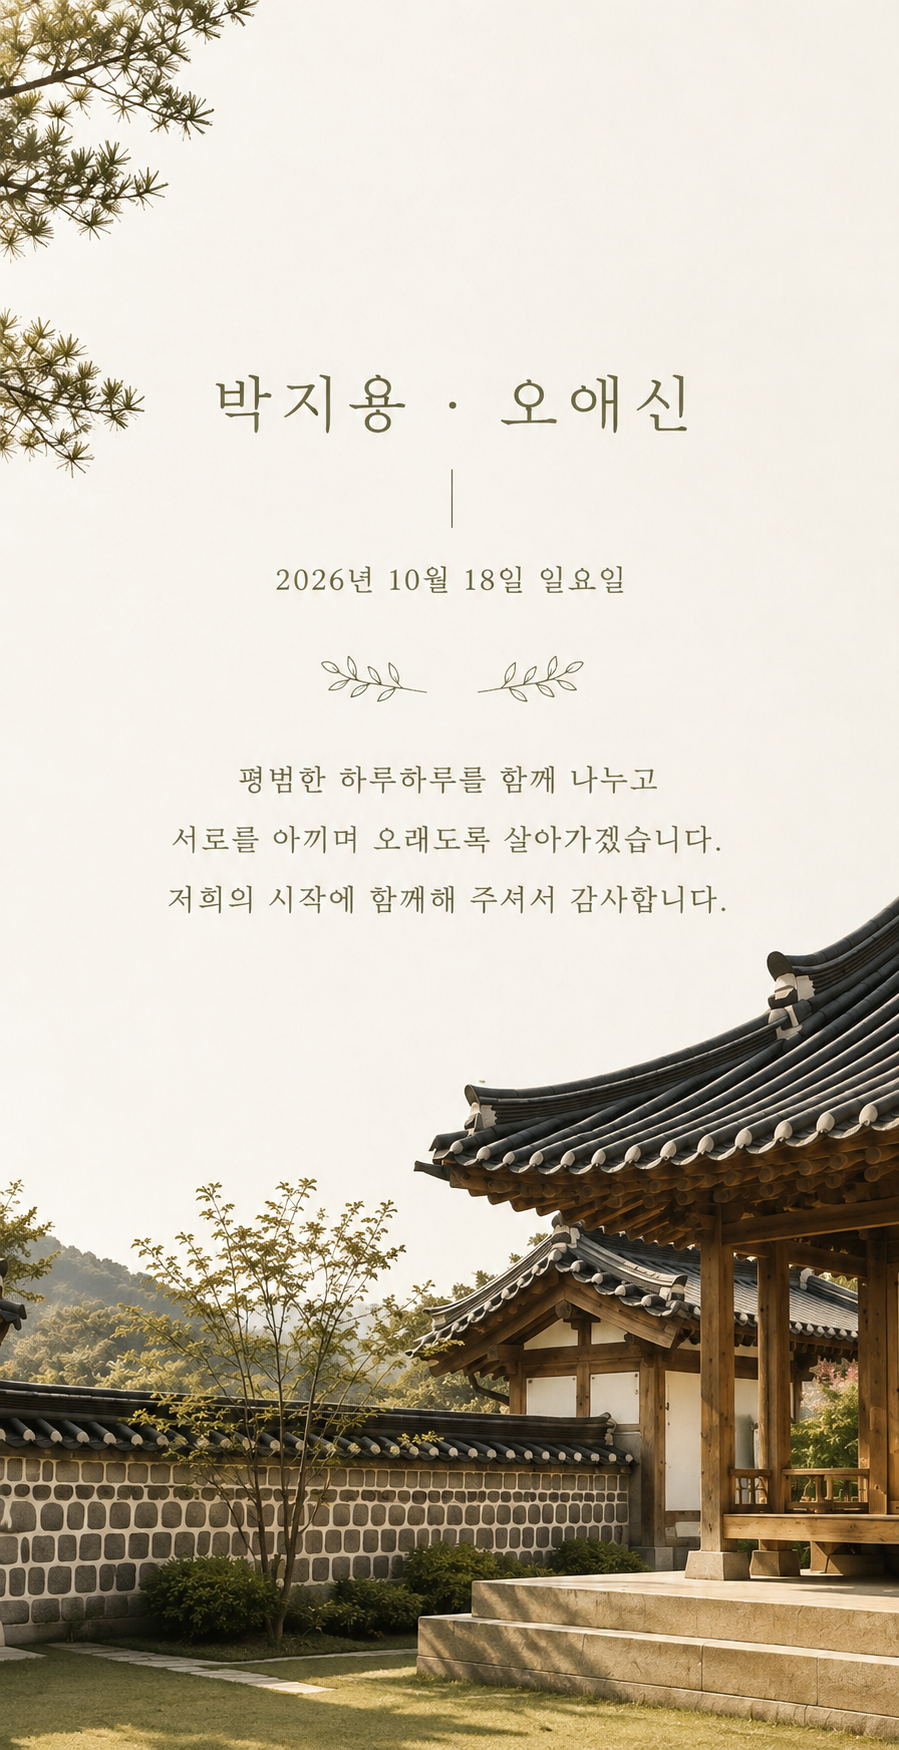
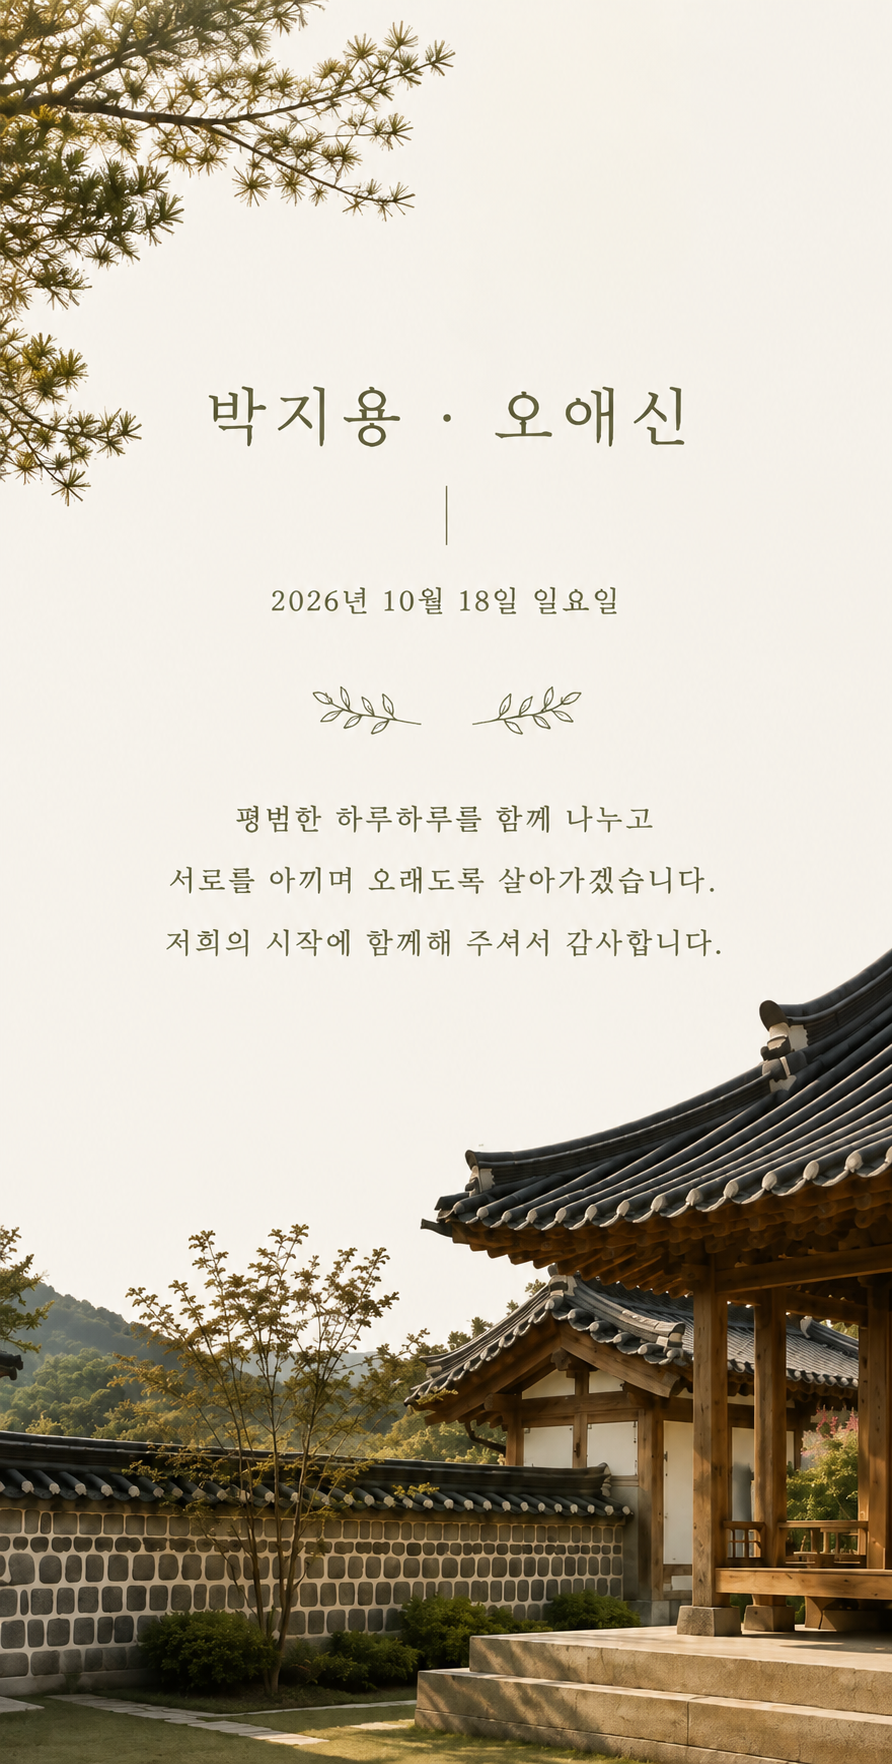
1.0.2 — 맺음말 이미지를 가지 끝까지 담긴 새 이미지로 교체
새로 받은 892×1764 이미지는 소나무 가지가 끝까지 프레임 안에 들어와 있다.
그래서 1.0.1 에서 잘린 끝을 가리려고 넣었던 여백·페이드 보정을 걷어냈다.
그대로 뒀다면 이번엔 멀쩡한 가지 끝이 페이드에 지워질 자리였다.

지색이 #f6f3ec 로 사이트 지색과 이미 같아 색 보정도 필요 없었다. design 의
마스터는 받은 PNG 를 무손실 webp 로만 바꾼 것이라 픽셀이 동일하다.

diff --git a/design/README.md b/design/README.md
@@ -8,7 +8,7 @@
 | --- | --- | --- |
 | `01-intro-splash.jpg` (1023×1537) | 첫 화면(전환 전) 사진 | `src/assets/intro/splash.jpg` |
 | `02-cover-header.webp` (941×1672, 9:16) | 표지 — 전환 후 첫 화면 | `src/assets/cover/cover.webp` |
-| `03-footer.webp` (899×1750, 무손실) | 맨 아래 맺음말 | `src/assets/sections/footer.webp` |
+| `03-footer.webp` (892×1764, 무손실) | 맨 아래 맺음말 | `src/assets/sections/footer.webp` |
 | `04-favicon.png` (256×256) | 브라우저 탭·홈화면 아이콘 | `public/favicon.png`, `public/apple-touch-icon.png` |
 
 ## 교체하는 법
@@ -24,18 +24,18 @@
 ## 가공 이력 (원본과 다른 점)
 
 - **표지**: 원본 PNG 를 webp q85 로 변환. 이 파일이 현재 남아 있는 최고 화질본입니다.
-- **푸터**: 원본의 지색이 `#f3eae1` 이라 사이트 지색(`#f6f3ec`)과 경계가 보여
-  채널별 게인으로 보정했습니다. 이 파일은 보정 후 무손실본입니다.
-  여기 있는 `03-footer.webp` 는 **가공 전 마스터**로 그대로 두고, 실제 사용 파일은
-  아래처럼 여기서 뽑습니다. 위쪽 소나무 가지가 원본에서 이미 잘려 있어(그 위는
-  남아 있지 않습니다) 여백을 덧대고 잘린 끝을 빛으로 날려 이어 보이게 한 것입니다.
+- **푸터**: 받은 원본 PNG(892×1764)를 **무손실 webp 로만** 바꿔 마스터로 두었습니다
+  (픽셀 동일, 1.8MB → 1.3MB). 지색이 `#f6f3ec` 라 사이트 지색과 이미 같아서 색 보정은
+  하지 않았고, 소나무 가지도 끝까지 프레임 안에 들어와 있어 따로 손댈 것이 없습니다.
+  (2026-08-21 에 받은 새 이미지입니다. 그 전 이미지는 가지가 위에서 잘려 있어
+  여백을 덧대고 페이드로 이어 보이게 하는 보정이 붙어 있었는데, 이제 필요 없어
+  걷어냈습니다.) 실제 사용 파일은 여기서 이렇게 뽑습니다.
 
   ```sh
-  magick 03-footer.webp \
-    -background '#f6f2ea' -gravity north -splice 0x70 \
-    \( -size 899x170 gradient:'#f6f2ea'-none \) -gravity north -composite \
-    -strip -quality 86 -define webp:method=6 ../src/assets/sections/footer.webp
+  magick 03-footer.webp -strip -quality 86 -define webp:method=6 \
+    ../src/assets/sections/footer.webp
   ```
+
 - **파비콘**: 원본(1254×1254)에서 반지 주변 여백을 잘라내(900×900) 확대한 뒤
   256px 로 줄이고 128색으로 양자화했습니다.
 - **장식 가지**(`src/assets/sections/branch.webp`): 달력 시안에서 잘라내

diff --git a/CHANGELOG.md b/CHANGELOG.md
@@ -1,5 +1,15 @@
 # 변경 기록
 
+## 1.0.2 — 2026-08-21
+
+맺음말 이미지를 새로 받은 것으로 교체했습니다(892×1764). 소나무 가지가 **끝까지
+프레임 안에 들어와 있어**, 1.0.1 에서 잘린 끝을 가리려고 넣었던 여백·페이드 보정을
+걷어냈습니다. 그 보정을 그대로 뒀다면 이번엔 가지 끝이 지워졌을 자리입니다.
+
+지색이 `#f6f3ec` 로 사이트 지색과 이미 같아 색 보정도 필요 없었습니다.
+`design/03-footer.webp` 마스터는 받은 PNG 를 무손실 webp 로만 바꾼 것이라
+원본과 픽셀이 같습니다(1.8MB → 1.3MB).
+
 ## 1.0.1 — 2026-08-21
 
 맨 아래 맺음말 이미지의 소나무 가지가 위쪽에서 **직선으로 뚝 잘려** 보이던 것을
